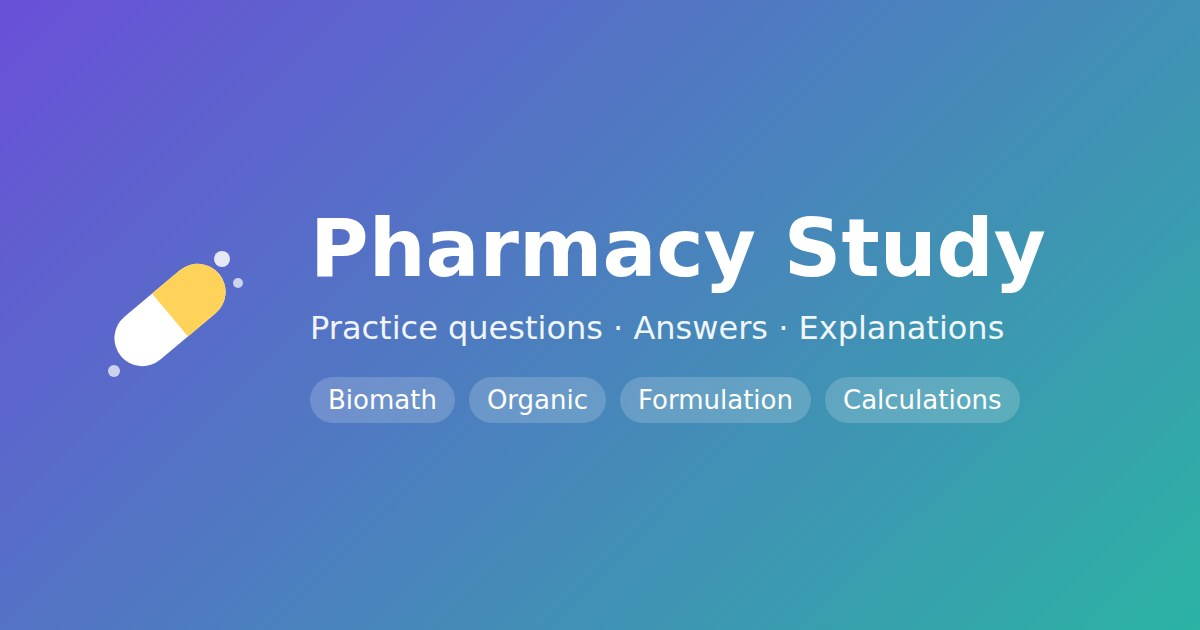
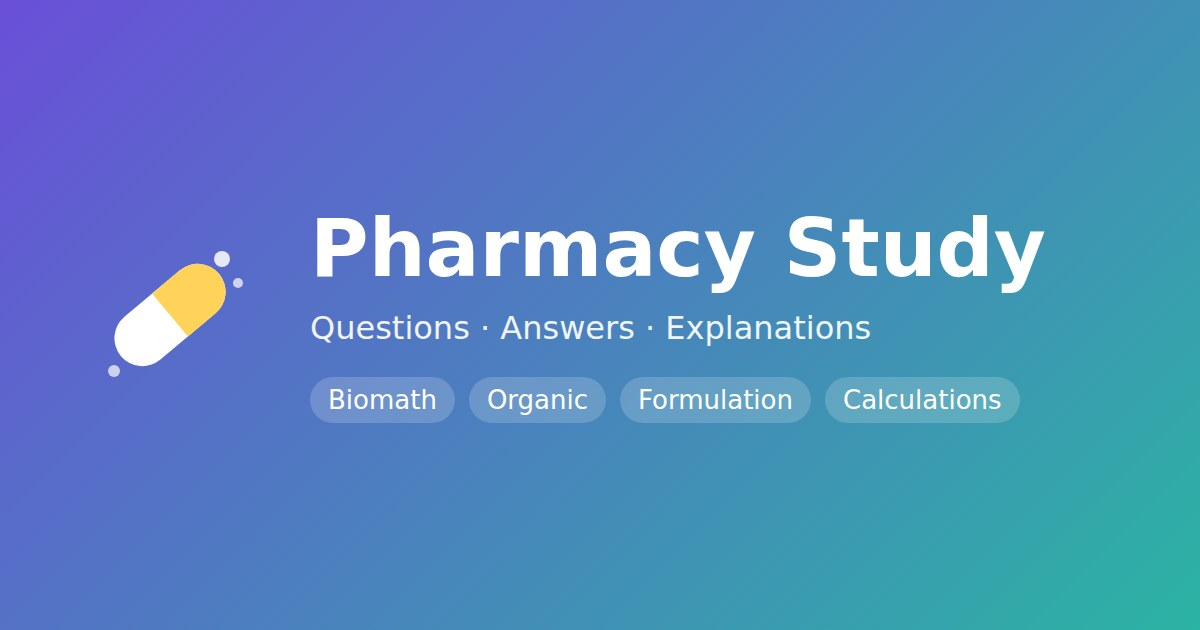
Shorten link preview text
Claude-Session: https://claude.ai/code/session_01XYs2BpC953G7deGE71jXEU

Changed region(s): [[0.2467, 0.4825, 0.8325, 0.5429]]

diff --git a/pharmaceutical-calculations/index.html b/pharmaceutical-calculations/index.html
@@ -1,4 +1,4 @@
-<!doctype html><html lang="en"><head><meta charset="utf-8"><meta name="viewport" content="width=device-width,initial-scale=1"><title>Pharmaceutical Calculations</title><link rel="icon" type="image/png" href="/favicon-32.png"><link rel="apple-touch-icon" href="/apple-touch-icon.png"><link rel="manifest" href="/manifest.webmanifest"><meta name="apple-mobile-web-app-capable" content="yes"><meta name="mobile-web-app-capable" content="yes"><meta name="apple-mobile-web-app-status-bar-style" content="default"><meta name="apple-mobile-web-app-title" content="Pharmacy Study"><meta name="theme-color" content="#5b3fc4"><meta name="description" content="Practice questions with answers and explanations for pharmacy courses"><meta property="og:type" content="website"><meta property="og:site_name" content="Pharmacy Study"><meta property="og:title" content="Pharmaceutical Calculations — Pharmacy Study"><meta property="og:description" content="Practice questions with answers and explanations for pharmacy courses"><meta property="og:image" content="https://pharmacy-study.vercel.app/og.jpg?v=2"><meta property="og:image:width" content="1200"><meta property="og:image:height" content="630"><meta property="og:url" content="https://pharmacy-study.vercel.app/"><meta name="twitter:card" content="summary_large_image"><meta name="twitter:image" content="https://pharmacy-study.vercel.app/og.jpg?v=2"><link rel="preconnect" href="https://fonts.googleapis.com"><link rel="preconnect" href="https://fonts.gstatic.com" crossorigin><link href="https://fonts.googleapis.com/css2?family=Nunito:wght@600;700;800&family=IBM+Plex+Sans+Arabic:wght@400;600&display=swap" rel="stylesheet" media="print" onload="this.media='all'"><noscript><link href="https://fonts.googleapis.com/css2?family=Nunito:wght@600;700;800&family=IBM+Plex+Sans+Arabic:wght@400;600&display=swap" rel="stylesheet"></noscript><style>*{box-sizing:border-box}
+<!doctype html><html lang="en"><head><meta charset="utf-8"><meta name="viewport" content="width=device-width,initial-scale=1"><title>Pharmaceutical Calculations</title><link rel="icon" type="image/png" href="/favicon-32.png"><link rel="apple-touch-icon" href="/apple-touch-icon.png"><link rel="manifest" href="/manifest.webmanifest"><meta name="apple-mobile-web-app-capable" content="yes"><meta name="mobile-web-app-capable" content="yes"><meta name="apple-mobile-web-app-status-bar-style" content="default"><meta name="apple-mobile-web-app-title" content="Pharmacy Study"><meta name="theme-color" content="#5b3fc4"><meta name="description" content="Questions with answers and explanations"><meta property="og:type" content="website"><meta property="og:site_name" content="Pharmacy Study"><meta property="og:title" content="Pharmaceutical Calculations — Pharmacy Study"><meta property="og:description" content="Questions with answers and explanations"><meta property="og:image" content="https://pharmacy-study.vercel.app/og.jpg?v=3"><meta property="og:image:width" content="1200"><meta property="og:image:height" content="630"><meta property="og:url" content="https://pharmacy-study.vercel.app/"><meta name="twitter:card" content="summary_large_image"><meta name="twitter:image" content="https://pharmacy-study.vercel.app/og.jpg?v=3"><link rel="preconnect" href="https://fonts.googleapis.com"><link rel="preconnect" href="https://fonts.gstatic.com" crossorigin><link href="https://fonts.googleapis.com/css2?family=Nunito:wght@600;700;800&family=IBM+Plex+Sans+Arabic:wght@400;600&display=swap" rel="stylesheet" media="print" onload="this.media='all'"><noscript><link href="https://fonts.googleapis.com/css2?family=Nunito:wght@600;700;800&family=IBM+Plex+Sans+Arabic:wght@400;600&display=swap" rel="stylesheet"></noscript><style>*{box-sizing:border-box}
 :root{--bg:#f7f6fb;--card:#fff;--ink:#1d1b26;--soft:#6e6a7c;--line:#e7e3f1;--ac:#6a4bb0;--acl:#efeafa;--op:#f4f3f8;--ok:#e8f6ed;--okb:#86c49b;--no:#fbeeee;--nob:#e0a9a9}
 @media (prefers-color-scheme:dark){:root{--bg:#141318;--card:#1d1b24;--ink:#ecebf2;--soft:#a39fb3;--line:#2f2b3b;--ac:#a68cf0;--acl:#2a2440;--op:#25222e;--ok:#1c3324;--okb:#4f8a63;--no:#3a2222;--nob:#9a5c5c}}
 body{margin:0;background:var(--bg);color:var(--ink);font-family:"Nunito","IBM Plex Sans Arabic",system-ui,sans-serif;padding:16px;line-height:1.5}

diff --git a/formulation-fundamentals/index.html b/formulation-fundamentals/index.html
@@ -1,4 +1,4 @@
-<!doctype html><html lang="en"><head><meta charset="utf-8"><meta name="viewport" content="width=device-width,initial-scale=1"><title>Formulation Fundamentals</title><link rel="icon" type="image/png" href="/favicon-32.png"><link rel="apple-touch-icon" href="/apple-touch-icon.png"><link rel="manifest" href="/manifest.webmanifest"><meta name="apple-mobile-web-app-capable" content="yes"><meta name="mobile-web-app-capable" content="yes"><meta name="apple-mobile-web-app-status-bar-style" content="default"><meta name="apple-mobile-web-app-title" content="Pharmacy Study"><meta name="theme-color" content="#5b3fc4"><meta name="description" content="Practice questions with answers and explanations for pharmacy courses"><meta property="og:type" content="website"><meta property="og:site_name" content="Pharmacy Study"><meta property="og:title" content="Formulation Fundamentals — Pharmacy Study"><meta property="og:description" content="Practice questions with answers and explanations for pharmacy courses"><meta property="og:image" content="https://pharmacy-study.vercel.app/og.jpg?v=2"><meta property="og:image:width" content="1200"><meta property="og:image:height" content="630"><meta property="og:url" content="https://pharmacy-study.vercel.app/"><meta name="twitter:card" content="summary_large_image"><meta name="twitter:image" content="https://pharmacy-study.vercel.app/og.jpg?v=2"><link rel="preconnect" href="https://fonts.googleapis.com"><link rel="preconnect" href="https://fonts.gstatic.com" crossorigin><link href="https://fonts.googleapis.com/css2?family=Nunito:wght@600;700;800&family=IBM+Plex+Sans+Arabic:wght@400;600&display=swap" rel="stylesheet" media="print" onload="this.media='all'"><noscript><link href="https://fonts.googleapis.com/css2?family=Nunito:wght@600;700;800&family=IBM+Plex+Sans+Arabic:wght@400;600&display=swap" rel="stylesheet"></noscript><style>*{box-sizing:border-box}
+<!doctype html><html lang="en"><head><meta charset="utf-8"><meta name="viewport" content="width=device-width,initial-scale=1"><title>Formulation Fundamentals</title><link rel="icon" type="image/png" href="/favicon-32.png"><link rel="apple-touch-icon" href="/apple-touch-icon.png"><link rel="manifest" href="/manifest.webmanifest"><meta name="apple-mobile-web-app-capable" content="yes"><meta name="mobile-web-app-capable" content="yes"><meta name="apple-mobile-web-app-status-bar-style" content="default"><meta name="apple-mobile-web-app-title" content="Pharmacy Study"><meta name="theme-color" content="#5b3fc4"><meta name="description" content="Questions with answers and explanations"><meta property="og:type" content="website"><meta property="og:site_name" content="Pharmacy Study"><meta property="og:title" content="Formulation Fundamentals — Pharmacy Study"><meta property="og:description" content="Questions with answers and explanations"><meta property="og:image" content="https://pharmacy-study.vercel.app/og.jpg?v=3"><meta property="og:image:width" content="1200"><meta property="og:image:height" content="630"><meta property="og:url" content="https://pharmacy-study.vercel.app/"><meta name="twitter:card" content="summary_large_image"><meta name="twitter:image" content="https://pharmacy-study.vercel.app/og.jpg?v=3"><link rel="preconnect" href="https://fonts.googleapis.com"><link rel="preconnect" href="https://fonts.gstatic.com" crossorigin><link href="https://fonts.googleapis.com/css2?family=Nunito:wght@600;700;800&family=IBM+Plex+Sans+Arabic:wght@400;600&display=swap" rel="stylesheet" media="print" onload="this.media='all'"><noscript><link href="https://fonts.googleapis.com/css2?family=Nunito:wght@600;700;800&family=IBM+Plex+Sans+Arabic:wght@400;600&display=swap" rel="stylesheet"></noscript><style>*{box-sizing:border-box}
 :root{--bg:#f7f6fb;--card:#fff;--ink:#1d1b26;--soft:#6e6a7c;--line:#e7e3f1;--ac:#6a4bb0;--acl:#efeafa;--op:#f4f3f8;--ok:#e8f6ed;--okb:#86c49b;--no:#fbeeee;--nob:#e0a9a9}
 @media (prefers-color-scheme:dark){:root{--bg:#141318;--card:#1d1b24;--ink:#ecebf2;--soft:#a39fb3;--line:#2f2b3b;--ac:#a68cf0;--acl:#2a2440;--op:#25222e;--ok:#1c3324;--okb:#4f8a63;--no:#3a2222;--nob:#9a5c5c}}
 body{margin:0;background:var(--bg);color:var(--ink);font-family:"Nunito","IBM Plex Sans Arabic",system-ui,sans-serif;padding:16px;line-height:1.5}

diff --git a/organic-chemistry/index.html b/organic-chemistry/index.html
@@ -1,4 +1,4 @@
-<!doctype html><html lang="en"><head><meta charset="utf-8"><meta name="viewport" content="width=device-width,initial-scale=1"><title>Organic Chemistry</title><link rel="icon" type="image/png" href="/favicon-32.png"><link rel="apple-touch-icon" href="/apple-touch-icon.png"><link rel="manifest" href="/manifest.webmanifest"><meta name="apple-mobile-web-app-capable" content="yes"><meta name="mobile-web-app-capable" content="yes"><meta name="apple-mobile-web-app-status-bar-style" content="default"><meta name="apple-mobile-web-app-title" content="Pharmacy Study"><meta name="theme-color" content="#5b3fc4"><meta name="description" content="Practice questions with answers and explanations for pharmacy courses"><meta property="og:type" content="website"><meta property="og:site_name" content="Pharmacy Study"><meta property="og:title" content="Organic Chemistry — Pharmacy Study"><meta property="og:description" content="Practice questions with answers and explanations for pharmacy courses"><meta property="og:image" content="https://pharmacy-study.vercel.app/og.jpg?v=2"><meta property="og:image:width" content="1200"><meta property="og:image:height" content="630"><meta property="og:url" content="https://pharmacy-study.vercel.app/"><meta name="twitter:card" content="summary_large_image"><meta name="twitter:image" content="https://pharmacy-study.vercel.app/og.jpg?v=2"><link rel="preconnect" href="https://fonts.googleapis.com"><link rel="preconnect" href="https://fonts.gstatic.com" crossorigin><link href="https://fonts.googleapis.com/css2?family=Nunito:wght@600;700;800&family=IBM+Plex+Sans+Arabic:wght@400;600&display=swap" rel="stylesheet" media="print" onload="this.media='all'"><noscript><link href="https://fonts.googleapis.com/css2?family=Nunito:wght@600;700;800&family=IBM+Plex+Sans+Arabic:wght@400;600&display=swap" rel="stylesheet"></noscript><style>*{box-sizing:border-box}
+<!doctype html><html lang="en"><head><meta charset="utf-8"><meta name="viewport" content="width=device-width,initial-scale=1"><title>Organic Chemistry</title><link rel="icon" type="image/png" href="/favicon-32.png"><link rel="apple-touch-icon" href="/apple-touch-icon.png"><link rel="manifest" href="/manifest.webmanifest"><meta name="apple-mobile-web-app-capable" content="yes"><meta name="mobile-web-app-capable" content="yes"><meta name="apple-mobile-web-app-status-bar-style" content="default"><meta name="apple-mobile-web-app-title" content="Pharmacy Study"><meta name="theme-color" content="#5b3fc4"><meta name="description" content="Questions with answers and explanations"><meta property="og:type" content="website"><meta property="og:site_name" content="Pharmacy Study"><meta property="og:title" content="Organic Chemistry — Pharmacy Study"><meta property="og:description" content="Questions with answers and explanations"><meta property="og:image" content="https://pharmacy-study.vercel.app/og.jpg?v=3"><meta property="og:image:width" content="1200"><meta property="og:image:height" content="630"><meta property="og:url" content="https://pharmacy-study.vercel.app/"><meta name="twitter:card" content="summary_large_image"><meta name="twitter:image" content="https://pharmacy-study.vercel.app/og.jpg?v=3"><link rel="preconnect" href="https://fonts.googleapis.com"><link rel="preconnect" href="https://fonts.gstatic.com" crossorigin><link href="https://fonts.googleapis.com/css2?family=Nunito:wght@600;700;800&family=IBM+Plex+Sans+Arabic:wght@400;600&display=swap" rel="stylesheet" media="print" onload="this.media='all'"><noscript><link href="https://fonts.googleapis.com/css2?family=Nunito:wght@600;700;800&family=IBM+Plex+Sans+Arabic:wght@400;600&display=swap" rel="stylesheet"></noscript><style>*{box-sizing:border-box}
 :root{--bg:#f7f6fb;--card:#fff;--ink:#1d1b26;--soft:#6e6a7c;--line:#e7e3f1;--ac:#6a4bb0;--acl:#efeafa;--op:#f4f3f8;--ok:#e8f6ed;--okb:#86c49b;--no:#fbeeee;--nob:#e0a9a9}
 @media (prefers-color-scheme:dark){:root{--bg:#141318;--card:#1d1b24;--ink:#ecebf2;--soft:#a39fb3;--line:#2f2b3b;--ac:#a68cf0;--acl:#2a2440;--op:#25222e;--ok:#1c3324;--okb:#4f8a63;--no:#3a2222;--nob:#9a5c5c}}
 body{margin:0;background:var(--bg);color:var(--ink);font-family:"Nunito","IBM Plex Sans Arabic",system-ui,sans-serif;padding:16px;line-height:1.5}

diff --git a/index.html b/index.html
@@ -1,4 +1,4 @@
-<!doctype html><html lang="ar" dir="rtl"><head><meta charset="utf-8"><meta name="viewport" content="width=device-width,initial-scale=1"><title>Pharmacy Study</title><link rel="icon" type="image/png" href="/favicon-32.png"><link rel="apple-touch-icon" href="/apple-touch-icon.png"><link rel="manifest" href="/manifest.webmanifest"><meta name="apple-mobile-web-app-capable" content="yes"><meta name="mobile-web-app-capable" content="yes"><meta name="apple-mobile-web-app-status-bar-style" content="default"><meta name="apple-mobile-web-app-title" content="Pharmacy Study"><meta name="theme-color" content="#5b3fc4"><meta name="description" content="Practice questions with answers and explanations for pharmacy courses"><meta property="og:type" content="website"><meta property="og:site_name" content="Pharmacy Study"><meta property="og:title" content="Pharmacy Study 💊"><meta property="og:description" content="Practice questions with answers and explanations for pharmacy courses"><meta property="og:image" content="https://pharmacy-study.vercel.app/og.jpg?v=2"><meta property="og:image:width" content="1200"><meta property="og:image:height" content="630"><meta property="og:url" content="https://pharmacy-study.vercel.app/"><meta name="twitter:card" content="summary_large_image"><meta name="twitter:image" content="https://pharmacy-study.vercel.app/og.jpg?v=2"><link rel="preconnect" href="https://fonts.googleapis.com"><link rel="preconnect" href="https://fonts.gstatic.com" crossorigin><link href="https://fonts.googleapis.com/css2?family=IBM+Plex+Sans+Arabic:wght@400;600;700&display=swap" rel="stylesheet" media="print" onload="this.media='all'"><noscript><link href="https://fonts.googleapis.com/css2?family=IBM+Plex+Sans+Arabic:wght@400;600;700&display=swap" rel="stylesheet"></noscript><style>*{box-sizing:border-box}
+<!doctype html><html lang="ar" dir="rtl"><head><meta charset="utf-8"><meta name="viewport" content="width=device-width,initial-scale=1"><title>Pharmacy Study</title><link rel="icon" type="image/png" href="/favicon-32.png"><link rel="apple-touch-icon" href="/apple-touch-icon.png"><link rel="manifest" href="/manifest.webmanifest"><meta name="apple-mobile-web-app-capable" content="yes"><meta name="mobile-web-app-capable" content="yes"><meta name="apple-mobile-web-app-status-bar-style" content="default"><meta name="apple-mobile-web-app-title" content="Pharmacy Study"><meta name="theme-color" content="#5b3fc4"><meta name="description" content="Questions with answers and explanations"><meta property="og:type" content="website"><meta property="og:site_name" content="Pharmacy Study"><meta property="og:title" content="Pharmacy Study 💊"><meta property="og:description" content="Questions with answers and explanations"><meta property="og:image" content="https://pharmacy-study.vercel.app/og.jpg?v=3"><meta property="og:image:width" content="1200"><meta property="og:image:height" content="630"><meta property="og:url" content="https://pharmacy-study.vercel.app/"><meta name="twitter:card" content="summary_large_image"><meta name="twitter:image" content="https://pharmacy-study.vercel.app/og.jpg?v=3"><link rel="preconnect" href="https://fonts.googleapis.com"><link rel="preconnect" href="https://fonts.gstatic.com" crossorigin><link href="https://fonts.googleapis.com/css2?family=IBM+Plex+Sans+Arabic:wght@400;600;700&display=swap" rel="stylesheet" media="print" onload="this.media='all'"><noscript><link href="https://fonts.googleapis.com/css2?family=IBM+Plex+Sans+Arabic:wght@400;600;700&display=swap" rel="stylesheet"></noscript><style>*{box-sizing:border-box}
 :root{--bg:#f4f6f9;--card:#fff;--ink:#1a2733;--soft:#5b6b78;--line:#dfe4ea}
 @media (prefers-color-scheme:dark){:root{--bg:#15191e;--card:#1f252c;--ink:#e8ecf0;--soft:#a3afba;--line:#323a43}}
 body{margin:0;min-height:100vh;background:var(--bg);color:var(--ink);font-family:"IBM Plex Sans Arabic",system-ui,sans-serif;padding:16px}

diff --git a/biomath/index.html b/biomath/index.html
@@ -1,4 +1,4 @@
-<!doctype html><html lang="en"><head><meta charset="utf-8"><meta name="viewport" content="width=device-width,initial-scale=1"><title>Biomath-Booklet📘</title><link rel="icon" type="image/png" href="/favicon-32.png"><link rel="apple-touch-icon" href="/apple-touch-icon.png"><link rel="manifest" href="/manifest.webmanifest"><meta name="apple-mobile-web-app-capable" content="yes"><meta name="mobile-web-app-capable" content="yes"><meta name="apple-mobile-web-app-status-bar-style" content="default"><meta name="apple-mobile-web-app-title" content="Pharmacy Study"><meta name="theme-color" content="#5b3fc4"><meta name="description" content="Practice questions with answers and explanations for pharmacy courses"><meta property="og:type" content="website"><meta property="og:site_name" content="Pharmacy Study"><meta property="og:title" content="Biomath-Booklet📘 — Pharmacy Study"><meta property="og:description" content="Practice questions with answers and explanations for pharmacy courses"><meta property="og:image" content="https://pharmacy-study.vercel.app/og.jpg?v=2"><meta property="og:image:width" content="1200"><meta property="og:image:height" content="630"><meta property="og:url" content="https://pharmacy-study.vercel.app/"><meta name="twitter:card" content="summary_large_image"><meta name="twitter:image" content="https://pharmacy-study.vercel.app/og.jpg?v=2"><style>
+<!doctype html><html lang="en"><head><meta charset="utf-8"><meta name="viewport" content="width=device-width,initial-scale=1"><title>Biomath-Booklet📘</title><link rel="icon" type="image/png" href="/favicon-32.png"><link rel="apple-touch-icon" href="/apple-touch-icon.png"><link rel="manifest" href="/manifest.webmanifest"><meta name="apple-mobile-web-app-capable" content="yes"><meta name="mobile-web-app-capable" content="yes"><meta name="apple-mobile-web-app-status-bar-style" content="default"><meta name="apple-mobile-web-app-title" content="Pharmacy Study"><meta name="theme-color" content="#5b3fc4"><meta name="description" content="Questions with answers and explanations"><meta property="og:type" content="website"><meta property="og:site_name" content="Pharmacy Study"><meta property="og:title" content="Biomath-Booklet📘 — Pharmacy Study"><meta property="og:description" content="Questions with answers and explanations"><meta property="og:image" content="https://pharmacy-study.vercel.app/og.jpg?v=3"><meta property="og:image:width" content="1200"><meta property="og:image:height" content="630"><meta property="og:url" content="https://pharmacy-study.vercel.app/"><meta name="twitter:card" content="summary_large_image"><meta name="twitter:image" content="https://pharmacy-study.vercel.app/og.jpg?v=3"><style>
 :root{--bg:#e9edf2;--bar:#fff;--ink:#1a2733;--line:#d3d9df;--chip:#eef2f7}
 @media (prefers-color-scheme:dark){:root{--bg:#1b1f24;--bar:#252a31;--ink:#e8ecf0;--line:#3a414a;--chip:#323842}}
 html{scroll-behavior:smooth}
